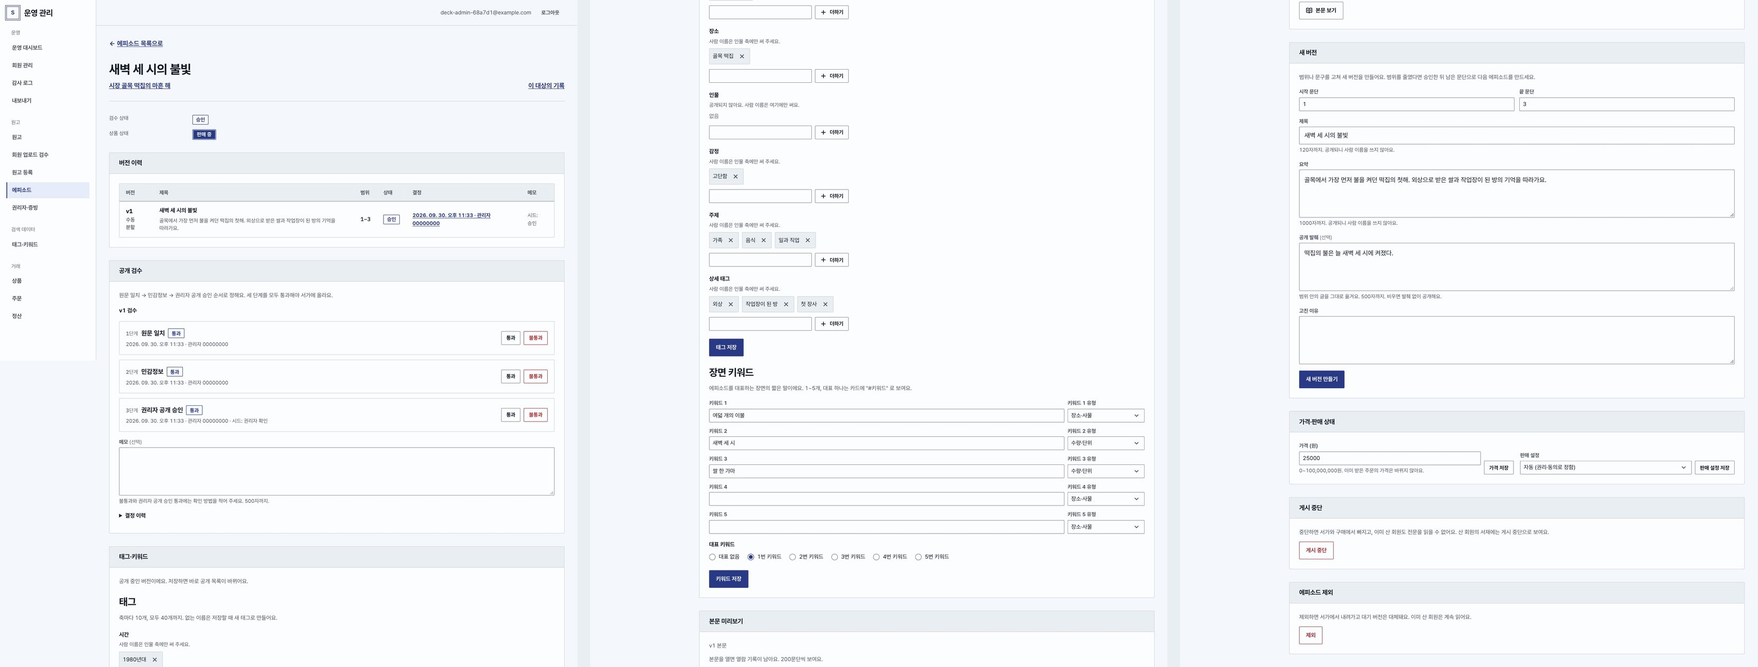
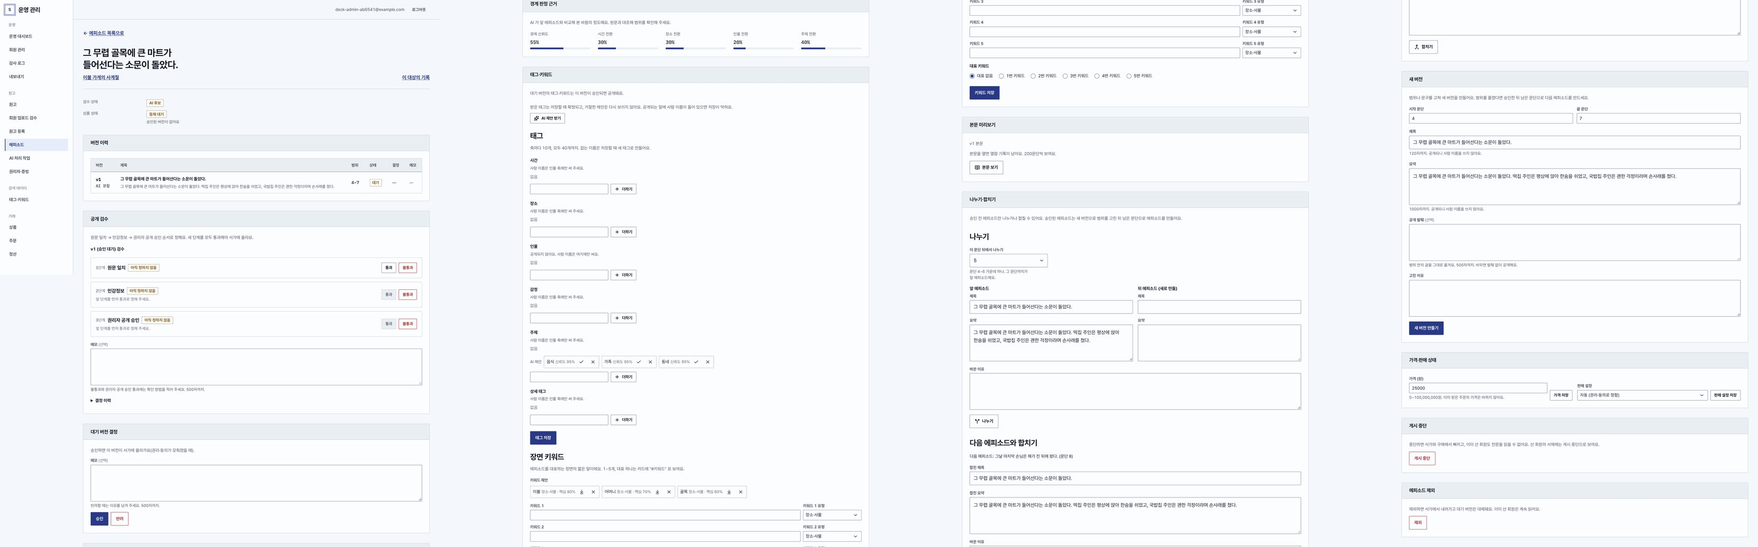
AI 처리 기반(B4b) 구현 반영: 기능 정의·정책서·화면 시안 갱신

diff --git a/planning/features.html b/planning/features.html
@@ -51,19 +51,19 @@
 
   <dl class="facts">
     <div class="fact"><dt>기능</dt><dd class="num">45개</dd></div>
-    <div class="fact"><dt>구현</dt><dd class="num">27개 <small>B1–B3·B5·B4a·B6a</small></dd></div>
-    <div class="fact"><dt>일부 구현</dt><dd class="num">10개</dd></div>
-    <div class="fact"><dt>예정</dt><dd class="num">8개 <small>B4·B6</small></dd></div>
+    <div class="fact"><dt>구현</dt><dd class="num">34개 <small>B1–B3·B4a·B4b·B5·B6a</small></dd></div>
+    <div class="fact"><dt>일부 구현</dt><dd class="num">5개</dd></div>
+    <div class="fact"><dt>예정</dt><dd class="num">6개 <small>B4c·B6</small></dd></div>
   </dl>
 
   <section class="sec" aria-labelledby="s0">
     <div class="sec-label"><p class="eyebrow">Overview</p><h2 id="s0">진행 현황</h2></div>
     <div class="sec-body">
-      <div class="meter" role="img" aria-label="45개 중 구현 27, 일부 10, 예정 8">
-        <i style="width:60%;background:var(--positive)"></i><i style="width:22.2%;background:var(--info)"></i><i style="width:17.8%;background:var(--rule-strong)"></i>
+      <div class="meter" role="img" aria-label="45개 중 구현 34, 일부 5, 예정 6">
+        <i style="width:75.6%;background:var(--positive)"></i><i style="width:11.1%;background:var(--info)"></i><i style="width:13.3%;background:var(--rule-strong)"></i>
       </div>
-      <div class="meter-legend"><span><span class="stamp is-built">구현</span> 27</span><span><span class="stamp is-partial">일부</span> 10</span><span><span class="stamp is-next">예정</span> 8</span></div>
-      <p class="prose">원고 등록부터 공개 검수, 서재·정산까지 전체 흐름 동작. 권리 심화(B5), 태그·키워드와 태그 조건 탐색(B4a), 감사 로그 화면·내보내기(B6a) 완료. 남은 기능은 AI 처리(B4), 운영·증빙(B6) 단계에서 추가.</p>
+      <div class="meter-legend"><span><span class="stamp is-built">구현</span> 34</span><span><span class="stamp is-partial">일부</span> 5</span><span><span class="stamp is-next">예정</span> 6</span></div>
+      <p class="prose">원고 등록부터 공개 검수, 서재·정산까지 전체 흐름 동작. 권리 심화(B5), 태그·키워드와 태그 조건 탐색(B4a), 감사 로그 화면·내보내기(B6a), AI 처리 기반(B4b: 작업 큐, AI 분할·제안 검수, 나누기·합치기, 외부 AI 통제) 완료. 남은 기능은 의미 검색(B4c), 운영·증빙(B6) 단계에서 추가.</p>
     </div>
   </section>
 
@@ -89,11 +89,11 @@
         <tr><td class="mono">F2-1</td><td>관리자 원고 등록</td><td>DOCX·PDF·TXT, 원작 정보, 저작권자, 중복 경고(파일 해시·이름·본문 해시)</td><td>A-08</td><td><span class="stamp is-built">구현 B3</span></td></tr>
         <tr><td class="mono">F2-2</td><td>회원 원고 등록</td><td>업로드 + 책임 고지 + 외부 AI 처리 동의, 마이페이지에서 진행 단계 확인</td><td>P-14</td><td><span class="stamp is-built">구현 B3</span></td></tr>
         <tr><td class="mono">F2-3</td><td>본문 추출·정규화</td><td>장·절·문단 구조와 문장 시작 위치는 구현. 문장 끝 위치, 머리글·바닥글 제거는 B4. HWP·OCR·STT 제외</td><td>—</td><td><span class="stamp is-partial">일부</span></td></tr>
-        <tr><td class="mono">F2-4</td><td>AI 장면·에피소드 분할</td><td>경계 후보와 사전 생성 요약, 관리자 확정</td><td>A-13 · A-14</td><td><span class="stamp is-next">예정 B4</span></td></tr>
-        <tr><td class="mono">F2-5</td><td>처리 작업 큐</td><td>단계별 상태·재시도·로그</td><td>A-10 · A-11</td><td><span class="stamp is-next">예정 B4</span></td></tr>
-        <tr><td class="mono">F2-6</td><td>관리자 검수</td><td>문단 범위로 에피소드·버전 생성, 겹침 방지, 문단 범위 보기는 구현. 원문·AI 결과 나란히 보기, 분할·병합은 B4</td><td>A-12 · A-13</td><td><span class="stamp is-partial">일부</span></td></tr>
+        <tr><td class="mono">F2-4</td><td>AI 장면·에피소드 분할</td><td>원고를 빈 구간의 창(약 24,000자)씩 보내 경계 후보·제목·요약 초안·경계 근거를 받고, 승인 전 "AI 후보" 에피소드로 둔 뒤 관리자가 확정. 키 없이 도는 결정적 제공자로 전체 흐름 검증, 실제 AI(Claude) 연결은 키(N1) 뒤</td><td>A-11 · A-13</td><td><span class="stamp is-built">구현 B4b</span></td></tr>
+        <tr><td class="mono">F2-5</td><td>처리 작업 큐</td><td>대기·처리 중·재시도 대기·실패·완료, 세 번까지 자동 재시도와 관리자 재실행, 처리 기록, AI 사용량·하루 예산·동시 실행 한도, "지금 실행". 크론 설정은 Vercel 플랜(N1) 뒤</td><td>A-10 · A-11</td><td><span class="stamp is-built">구현 B4b</span></td></tr>
+        <tr><td class="mono">F2-6</td><td>관리자 검수</td><td>문단 범위로 에피소드·버전 생성, 겹침 방지, 문단 범위 보기, AI 후보 조건, 경계 판정 근거, 승인 전 에피소드 나누기·붙은 두 에피소드 합치기</td><td>A-12 · A-13 · A-14</td><td><span class="stamp is-built">구현 B3·B4b</span></td></tr>
         <tr><td class="mono">F2-7</td><td>승인 기록</td><td>버전 승인·반려, 결정자·시각·메모는 구현. 재색인 표시는 B4</td><td>A-13</td><td><span class="stamp is-partial">일부</span></td></tr>
-        <tr><td class="mono">F2-8</td><td>회원 업로드 검수</td><td>접수 대기 목록·동의 기록 확인·접수·반려 사유 회신은 구현. AI 처리 단계는 B4</td><td>A-09</td><td><span class="stamp is-partial">일부</span></td></tr>
+        <tr><td class="mono">F2-8</td><td>회원 업로드 검수</td><td>접수 대기 목록·동의 기록 확인·접수·반려 사유 회신, 접수한 원고의 AI 분할 요청(외부 AI 동의가 없으면 막힌 이유와 수동 분할 안내)</td><td>A-09</td><td><span class="stamp is-built">구현 B3·B4b</span></td></tr>
       </tbody></table></div></div>
   </section>
 
@@ -102,8 +102,8 @@
     <div class="sec-body"><div class="table-wrap"><table class="feature-table">
       <thead><tr><th>번호</th><th>기능</th><th>완료 기준</th><th>화면</th><th>상태</th></tr></thead>
       <tbody>
-        <tr><td class="mono">F3-1</td><td>서사 태그</td><td>시간·장소·인물·감정 축(인물은 공개 안 함), 관리자가 버전마다 붙이고 새 버전이 이어받음은 구현. AI 제안 → 관리자 확정은 B4</td><td>A-13 · A-19</td><td><span class="stamp is-partial">일부</span></td></tr>
-        <tr><td class="mono">F3-2</td><td>장면 키워드</td><td>에피소드 버전마다 1~5개, 대표 1개, 키워드 유형은 구현(대표는 카드에 #키워드). AI 후보와 핵심 장면 점수는 B4</td><td>A-13 · A-19</td><td><span class="stamp is-partial">일부</span></td></tr>
+        <tr><td class="mono">F3-1</td><td>서사 태그</td><td>시간·장소·인물·감정 축(인물은 공개 안 함), 관리자가 버전마다 붙이고 새 버전이 이어받음. AI 제안(기존 태그·새 이름, 신뢰도)을 받거나 거절하고, 제목만 고친 새 버전으로 제안이 따라감</td><td>A-13 · A-19</td><td><span class="stamp is-built">구현 B4a·B4b</span></td></tr>
+        <tr><td class="mono">F3-2</td><td>장면 키워드</td><td>에피소드 버전마다 1~5개, 대표 1개, 키워드 유형(대표는 카드에 #키워드). AI 후보와 핵심 장면 점수를 빈 칸에 넣거나 거절</td><td>A-13 · A-19</td><td><span class="stamp is-built">구현 B4a·B4b</span></td></tr>
         <tr><td class="mono">F3-3</td><td>상세 태그</td><td>검색용 일상어 태그(축마다 10개까지), 카드·상세에 보이고 검색어로 찾음</td><td>A-13</td><td><span class="stamp is-built">구현 B4a</span></td></tr>
         <tr><td class="mono">F3-4</td><td>공개 주제 분류</td><td>이야기 종류(실화·꿈 이야기·단편 소설)와 주제 8개(가족·사랑·우정·성장·일과 직업·여행·음식·동네), 첫 화면 주제 타일과 탐색 조건</td><td>P-01 · P-02</td><td><span class="stamp is-built">구현 B3·B4a</span></td></tr>
         <tr><td class="mono">F3-5</td><td>식별자 매핑</td><td>주문 항목·이용 기록에 구매 시점의 대표 키워드를 남겨 키워드 ↔ 에피소드 ↔ 저작권자 ↔ 정산 식별자가 이어짐</td><td>A-23 · A-24</td><td><span class="stamp is-built">구현 B4a</span></td></tr>
@@ -134,7 +134,7 @@
         <tr><td class="mono">F5-3</td><td>약관·책임 고지</td><td>회원 업로드 동의 항목, 동의 시각·버전 저장은 구현. 문구는 초안이며 발주자 동의서 문구로 교체 예정</td><td>P-14 · P-15</td><td><span class="stamp is-partial">일부</span></td></tr>
         <tr><td class="mono">F5-4</td><td>간이 계약 자동 생성</td><td>"저작권은 작가, 출판권은 레페토" 조건(계약 주체 명칭 확인 필요)을 발급 때 저장하고 PDF 출력, 무효화. 전자서명 없이 동의서·업로드 동의로 증빙</td><td>A-15 · A-18</td><td><span class="stamp is-built">구현 B5</span></td></tr>
         <tr><td class="mono">F5-5</td><td>승인 게이트</td><td>원문 일치 → 민감정보 → 권리자 공개 승인 3단계(순서·메모·이력·되돌림), 판매 차단 조건, 가림(구매자 전문에 ■■)</td><td>A-13 · A-15</td><td><span class="stamp is-built">구현 B3·B5</span></td></tr>
-        <tr><td class="mono">F5-6</td><td>외부 AI 전송 통제</td><td>동의 기록은 구현. 동의 없는 원고의 AI 처리 차단은 B4·B5</td><td>—</td><td><span class="stamp is-partial">일부</span></td></tr>
+        <tr><td class="mono">F5-6</td><td>외부 AI 전송 통제</td><td>권리 기록의 외부 AI 판정과 증빙(회원 동의, 확인·미파기·기한 안의 동의서 범위)을 등록·실행·원문 전송·결과 저장마다 다시 확인. 가림 적용 원문만 보내고 보낸 범위를 작업 기록에 남김</td><td>A-07 · A-11</td><td><span class="stamp is-built">구현 B3·B4b</span></td></tr>
         <tr><td class="mono">F5-7</td><td>접근 기록</td><td>전문·원본·동의서·회원 정보·권리자 연락처·간이 계약 열람자와 시각</td><td>—</td><td><span class="stamp is-built">구현 B2·B3·B5</span></td></tr>
       </tbody></table></div></div>
   </section>

diff --git a/assets/data.js b/assets/data.js
@@ -111,22 +111,26 @@ SB.screens = [
     purpose: '회원이 올린 원고를 원고 상세에서 검수합니다. 접수하거나 사유를 적어 반려합니다.',
     points: ['업로드한 회원의 동의 기록(책임 고지·외부 AI)', '중복 판단 기준과 원본 열람(60초 유효 링크, 열람 기록)', '접수·반려(반려 사유는 회원에게 표시)'],
     features: ['F2-8', 'F5-6'], strips: 'A09-submission-strips.jpg' },
-  { id: 'A-10', name: 'AI 처리 작업', route: '/admin/jobs', area: 'admin', status: 'wire', bundle: 'B4',
-    purpose: 'AI 분할·태깅 작업의 처리·실패·완료를 봅니다.', points: ['작업 상태와 재시도', '처리 시간'], features: ['F2-5'], desktop: 'W-A10-jobs-desktop.jpg' },
-  { id: 'A-11', name: '작업 상세', route: '/admin/job', area: 'admin', status: 'wire', bundle: 'B4',
-    purpose: '단계별 진행과 로그를 보고 실패한 단계를 다시 실행합니다.', points: ['단계별 진행', '로그와 재시도'], features: ['F2-5'], desktop: 'W-A11-job-desktop.jpg' },
+  { id: 'A-10', name: 'AI 처리 작업', route: '/admin/jobs', area: 'admin', status: 'built', bundle: 'B4b',
+    purpose: 'AI 분할과 태그·키워드 제안 작업의 대기·처리·재시도·실패·완료를 보고, 실행기를 바로 돌립니다.',
+    points: ['상태별 수, 오늘 AI 비용과 하루 예산, 제공자', '"지금 실행"(크론 설정 전에도 운영), 상태·종류 조건', '작업마다 대상 원고·에피소드, 시도 수, 결과(후보·제안 수), 실패 이유'],
+    features: ['F2-5'], desktop: 'A10-jobs-desktop.jpg', mobile: 'A10-jobs-mobile.jpg', extra: [{ label: '와이어프레임', desktop: 'W-A10-jobs-desktop.jpg' }] },
+  { id: 'A-11', name: '작업 상세', route: '/admin/jobs/{id}', area: 'admin', status: 'built', bundle: 'B4b',
+    purpose: '분할 진행과 후보별 제안 진행, 처리 기록, AI 사용량을 보고 실패한 작업을 다시 실행합니다.',
+    points: ['분할한 문단 비율, 후보의 태그·키워드 제안 진행과 "AI 후보 검수" 링크', '처리 기록: 원문 보냄(문단 범위·글자 수·가림 수), 구간 처리, 재시도 — 원문·AI 응답은 남기지 않음', '호출별 모델·토큰·비용'],
+    features: ['F2-5', 'F5-6'], desktop: 'A11-job-desktop.jpg', extra: [{ label: '와이어프레임', desktop: 'W-A11-job-desktop.jpg' }] },
   { id: 'A-12', name: '에피소드 검수 목록', route: '/admin/episodes', area: 'admin', status: 'built', bundle: 'B3',
     purpose: '에피소드를 검수 상태와 승인 대기 버전, 원고 출처로 찾습니다.',
     points: ['검수 상태·승인 대기 버전·출처 조건', '현재 버전, 문단 범위, 상품 상태, 가격', '대시보드의 "승인 대기 버전"에서 바로 진입'],
     features: ['F2-6'], desktop: 'A12-episodes-desktop.jpg', mobile: 'A12-episodes-mobile.jpg' },
   { id: 'A-13', name: '에피소드 편집', route: '/admin/episodes/{id}', area: 'admin', status: 'built', bundle: 'B3',
-    purpose: '버전을 만들고 승인하거나 반려합니다. 공개 검수 3단계를 정하고, 태그와 장면 키워드를 붙이고, 필요하면 게시를 중단합니다. 가격과 판매 설정도 여기서 바꿉니다.',
-    points: ['버전 이력: 작성자·결정자·메모', '공개 검수: 원문 일치 → 민감정보 → 권리자 공개 승인, 결정 이력', '태그·키워드: 축마다 태그(없는 이름은 새로 만듦), 장면 키워드 1~5개와 대표, 대기 버전이 있으면 공개 중인 버전도 고를 수 있음', '새 버전(범위 조정·수정), 승인·반려, 게시 중단·재개, 제외', '가격·판매 설정(저장 즉시 공개 목록 반영)'],
-    features: ['F2-6', 'F2-7', 'F5-5', 'F6-3', 'F3-1', 'F3-2'], strips: 'A13-episode-strips.jpg' },
-  { id: 'A-14', name: '원문 대조', route: '/admin/manuscripts/{id}', area: 'admin', status: 'partial', bundle: 'B3 · B4',
-    purpose: '번호 붙은 문단을 200개씩 넘겨 보며 범위를 정합니다. 분할·병합 편집은 AI 분할과 함께 구현합니다.',
-    points: ['구현: 200문단 단위 보기, 장·절 제목, 쪽 번호, 열람 기록', '예정: 원문 근거 대조, 분할·병합(와이어프레임)'],
-    features: ['F2-6'], desktop: 'A14-paragraphs-desktop.jpg', extra: [{ label: '와이어프레임: 분할·병합', desktop: 'W-A14-source-desktop.jpg' }] },
+    purpose: '버전을 만들고 승인하거나 반려합니다. 공개 검수 3단계를 정하고, 태그와 장면 키워드를 붙이고(AI 제안은 받거나 거절), 승인 전 에피소드는 나누거나 합치고, 필요하면 게시를 중단합니다. 가격과 판매 설정도 여기서 바꿉니다.',
+    points: ['버전 이력: 작성자·결정자·메모, AI 분할 버전 표시', '공개 검수: 원문 일치 → 민감정보 → 권리자 공개 승인, 결정 이력', 'AI 후보의 경계 판정 근거(신뢰도·시간·장소·인물·주제 전환)', '태그·키워드: 축마다 태그와 AI 제안(신뢰도, 받기·거절), 장면 키워드 1~5개·대표와 AI 키워드 후보(핵심 장면 점수), "AI 제안 받기"', '새 버전, 나누기·합치기(승인 전), 승인·반려, 게시 중단·재개, 제외, 가격·판매 설정'],
+    features: ['F2-4', 'F2-6', 'F2-7', 'F5-5', 'F6-3', 'F3-1', 'F3-2'], strips: 'A13-episode-strips.jpg' },
+  { id: 'A-14', name: '원문 대조', route: '/admin/manuscripts/{id}', area: 'admin', status: 'built', bundle: 'B3 · B4b',
+    purpose: '번호 붙은 문단을 200개씩 넘겨 보며 범위를 정하고, 에피소드 화면에서 AI 경계 근거를 보며 승인 전 에피소드를 나누거나 합칩니다.',
+    points: ['200문단 단위 보기, 장·절 제목, 쪽 번호, 열람 기록', '경계 판정 근거: 신뢰도와 시간·장소·인물·주제 전환, 이름·가린 글 경고', '나누기(이 문단 뒤에서, 뒤는 새 에피소드)·합치기(바로 이어지는 승인 전 에피소드만)'],
+    features: ['F2-4', 'F2-6'], desktop: 'A14-paragraphs-desktop.jpg', extra: [{ label: '경계 근거·나누기·합치기', desktop: 'A14-reshape-desktop.jpg' }, { label: '와이어프레임: 분할·병합', desktop: 'W-A14-source-desktop.jpg' }] },
   { id: 'A-15', name: '권리·공개 검수', route: '/admin/manuscripts/{id}', area: 'admin', status: 'merged', bundle: 'B3', mergedInto: 'A-07',
     purpose: '원고 상세에서 권리 판정을 버전별로 기록하고, 동의서를 확인·파기하고, 간이 계약을 발급합니다. 본문의 민감정보는 가림으로 처리합니다.',
     points: ['권리 기록: 판정 항목 6개, 허용 용도, 제한 문구, 연결 동의서', '동의서: 범위와 보관 기한, 확인, 기한 상태, 파기', '간이 계약: 발급, PDF 받기, 무효화', '민감정보 가림(이 등장·문단·원고 전체), 원고 철회'],

diff --git a/planning/policy.html b/planning/policy.html
@@ -119,7 +119,7 @@
             <tr><td>권리 증빙</td><td>동의서 파일(스캔 이미지 가능)</td><td>업로드 시 책임 고지 동의(계약서 받지 않음)</td></tr>
             <tr><td>시작 상태</td><td>처리 중</td><td>접수 대기(관리자 검수 후 접수)</td></tr>
             <tr><td>외부 AI 처리</td><td>동의서 범위에 포함된 경우(동의서가 없으면 관리자 판정)</td><td>업로드 시 선택 동의한 경우</td></tr>
-            <tr><td>분할 방식</td><td colspan="2">AI가 제안한 경계를 관리자가 검수·확정. 외부 AI 미동의 원고는 관리자가 직접 분할</td></tr>
+            <tr><td>분할 방식</td><td colspan="2">AI가 제안한 경계(후보·제목·요약 초안·경계 근거)를 관리자가 검수·확정. 승인 전 후보는 나누거나 바로 이어지는 후보와 합칠 수 있음. 외부 AI 미동의 원고는 관리자가 직접 분할</td></tr>
           </tbody>
         </table>
       </div>
@@ -153,7 +153,7 @@
       <ul class="rows">
         <li><span class="n">EP-1</span><strong>분할 기준</strong><span>원고 본문의 시작·끝 문단 번호로 에피소드 범위 확정. 다른 에피소드의 승인 범위나 검토 중인 범위와 겹치면 거절.</span></li>
         <li><span class="n">EP-2</span><strong>버전</strong><span>수정·범위 조정은 새 버전으로 추가. 승인된 버전은 한 번에 하나이며, 새 버전 승인 시 이전 승인 버전은 대체됨. 반려 시 승인 버전 유지.</span></li>
-        <li><span class="n">EP-3</span><strong>승인 요약</strong><span>관리자가 승인한 요약만 공개(U6 기본안). AI가 만든 요약도 관리자 검수 전에는 확정하지 않음.</span></li>
+        <li><span class="n">EP-3</span><strong>승인 요약</strong><span>관리자가 승인한 요약만 공개(U6 기본안). AI가 만든 에피소드 후보·요약은 "AI 후보"로 대기하고 관리자 승인 전에는 공개하지 않음. 제목·요약에 원고의 사람 이름이나 가린 글이 들어 있으면 경고.</span></li>
         <li><span class="n">EP-4</span><strong>공개 발췌</strong><span>그 에피소드 원문에 그대로 있는 문장만 허용(저장 시 일치 확인). 발췌 공개 동의가 있을 때만 게시.</span></li>
         <li><span class="n">EP-5</span><strong>실명 금지</strong><span>요약·발췌·원고 소개에 사람 이름 사용 금지(작성 기준, 관리자 화면 안내). 본문의 실명·제3자 정보는 가림(RT-5)으로 처리하고, 민감정보 검수를 통과해야 공개 목록에 오름.</span></li>
         <li><span class="n">EP-6</span><strong>제외</strong><span>관리자가 사유를 남기고 에피소드를 제외하면 공개 목록과 판매에서 빠짐. 이미 구매한 회원은 구매한 버전을 계속 읽음.</span></li>
@@ -190,7 +190,7 @@
             <tr><td>외부 공개 허용</td><td>요약·발췌를 공개 목록에 올릴 수 있는지</td><td>불허 시 공개 목록 제외</td></tr>
             <tr><td>익명화 필요</td><td>이름 가림이 필요한 원고인지(회원의 가림 요청이 기본값)</td><td>필요 시 가림 처리 전까지 공개 목록 제외</td></tr>
             <tr><td>2차 활용 허용</td><td>영상·웹툰 등 2차 창작 활용 허용 여부</td><td>판매 판정에는 쓰지 않음. 상업적 활용 라이선스(U2) 판단 근거</td></tr>
-            <tr><td>외부 AI 허용</td><td>외부 AI 처리(분할·임베딩) 허용 여부. 회원 업로드는 외부 AI 처리 동의, 관리자 등록은 연결 동의서의 범위(동의서가 없으면 관리자 판정)</td><td>AI 처리 작업 등록 조건</td></tr>
+            <tr><td>외부 AI 허용</td><td>외부 AI 처리(분할·태그 제안·임베딩) 허용 여부. 회원 업로드는 외부 AI 처리 동의, 관리자 등록은 연결 동의서의 범위(동의서가 없으면 관리자 판정)</td><td>AI 작업의 등록·실행·원문 전송·결과 저장마다 판정과 증빙(동의서의 확인·파기·보관 기한·범위)을 다시 확인. 가림을 적용한 원문만 보내고 보낸 범위를 작업 기록에 남김</td></tr>
             <tr><td>허용 용도 · 제한 문구</td><td>허용하는 활용 유형과 이용 제한 내용</td><td>제한이 있으면 조건부 판매, 제한 내용 표시</td></tr>
             <tr><td>연결 동의서</td><td>이 권리 판정의 증빙 파일</td><td>동의 범위·보관 기한 판정</td></tr>
           </tbody>
@@ -314,6 +314,7 @@
         <li><span class="n">OP-5</span><strong>파일 제공</strong><span>원본·동의서는 열람 기록을 남긴 뒤 60초 유효 링크로만 제공. 등록 후 바뀐 파일은 열지 않고 알림.</span></li>
         <li><span class="n">OP-6</span><strong>감사 로그</strong><span>등급·상태·승인·권리·가격·주문·지급·분류 변경을 수정·삭제할 수 없는 기록으로 저장. 관리자 화면에서 대상·기간으로 조회하고, 회원은 이름 없이 번호로 표시(회원 정보는 열람 기록을 남기는 회원 상세에서).</span></li>
         <li><span class="n">OP-7</span><strong>내보내기</strong><span>관리자가 공개된 에피소드와 메타데이터를 CSV·JSON으로 받음. 공개 목록에 보이는 글만 싣고 사람 이름·원문 전문·동의서·원고 파일은 빼며, 받을 때마다 받은 사람·시각·조건·건수를 기록.</span></li>
+        <li><span class="n">OP-8</span><strong>AI 처리 비용</strong><span>AI 호출마다 모델·토큰·비용을 기록하고, 하루(한국 날짜) 예산을 넘거나 동시에 도는 작업이 한도에 닿으면 새 작업을 멈춤. 실패한 작업은 세 번까지 자동 재시도하고, 거절·설정 없음처럼 다시 해도 같은 실패는 바로 멈춰 관리자가 다시 실행.</span></li>
       </ul>
       <p class="note"><strong>정식 공개 전 추가 조건.</strong> 보안 강화 조치, 외부 메일 발송(SMTP), 약관·개인정보 처리방침 법무 검토.</p>
     </div>

diff --git a/planning/ia.html b/planning/ia.html
@@ -57,7 +57,7 @@
     <div class="fact"><dt>공개 화면</dt><dd class="num">17개 <small>P-01–P-17</small></dd></div>
     <div class="fact"><dt>관리자 화면</dt><dd class="num">25개 <small>A-01–A-25</small></dd></div>
     <div class="fact"><dt>언어</dt><dd>한국어 · 영어 <small>공개 화면</small></dd></div>
-    <div class="fact"><dt>구현한 화면</dt><dd class="num"><span data-count="*:built,partial,merged"></span>개 <small>구현 28 + 포함·일부 4</small></dd></div>
+    <div class="fact"><dt>구현한 화면</dt><dd class="num"><span data-count="*:built,partial,merged"></span>개 <small>구현 31 + 포함 3</small></dd></div>
   </dl>
 
   <section class="sec" aria-labelledby="s1">
@@ -80,7 +80,7 @@
     <div class="sec-body">
       <div class="tree">
         <div><h3><span class="mono">운영</span>운영</h3><ul><li>운영 대시보드 <span class="mono">A-02</span></li><li>회원 관리 <span class="mono">A-03</span></li><li>└ 회원 상세 <span class="mono">A-04</span></li><li>감사 로그 <span class="mono">A-25</span></li><li>내보내기 <span class="mono">A-25</span></li></ul></div>
-        <div><h3><span class="mono">원고</span>원고</h3><ul><li>원고 목록·상세 <span class="mono">A-07</span></li><li>└ 권리·공개 검수 <span class="mono">A-15</span></li><li>└ 원문 대조 <span class="mono">A-14</span></li><li>회원 업로드 검수 <span class="mono">A-09</span></li><li>원고 등록 <span class="mono">A-08</span></li><li>에피소드 검수 목록 <span class="mono">A-12</span></li><li>└ 에피소드 편집 <span class="mono">A-13</span></li><li class="is-wire">AI 처리 작업 <span class="mono">A-10</span></li><li>권리자·증빙 <span class="mono">A-18</span></li></ul></div>
+        <div><h3><span class="mono">원고</span>원고</h3><ul><li>원고 목록·상세 <span class="mono">A-07</span></li><li>└ 권리·공개 검수 <span class="mono">A-15</span></li><li>└ 원문 대조 <span class="mono">A-14</span></li><li>회원 업로드 검수 <span class="mono">A-09</span></li><li>원고 등록 <span class="mono">A-08</span></li><li>에피소드 검수 목록 <span class="mono">A-12</span></li><li>└ 에피소드 편집 <span class="mono">A-13</span></li><li>AI 처리 작업 <span class="mono">A-10</span></li><li>└ 작업 상세 <span class="mono">A-11</span></li><li>권리자·증빙 <span class="mono">A-18</span></li></ul></div>
         <div><h3><span class="mono">검색 데이터</span>검색 데이터</h3><ul><li>태그·키워드 <span class="mono">A-19</span></li><li>└ 장면 키워드 목록 <span class="mono">A-19</span></li><li class="is-wire">벡터 색인 <span class="mono">A-20</span></li></ul></div>
         <div><h3><span class="mono">거래</span>거래</h3><ul><li>상품 관리 <span class="mono">A-21</span></li><li>주문 <span class="mono">A-22</span></li><li>└ 주문 상세 <span class="mono">A-23</span></li><li>정산 <span class="mono">A-24</span></li></ul></div>
       </div>

diff --git a/planning/schedule.html b/planning/schedule.html
@@ -70,7 +70,8 @@
             <tr><td class="group">디자인</td><td>디자인 시스템 사이트, 무드보드, 기획·디자인 자료</td><td class="mono">10.22 – 10.27</td><td><span class="stamp is-partial">진행 중</span></td><td>C1 · C4 · C5</td></tr>
             <tr><td class="group">납품</td><td>C1–C5 마무리와 제출</td><td class="mono">10.27 – 10.30</td><td><span class="stamp is-next">예정</span></td><td>계약 납품물</td></tr>
             <tr><td class="group">개발</td><td>분류(B4a): 태그 축·태그·장면 키워드 수동 입력, 주제·태그·활용 유형 탐색, 첫 화면 주제 타일</td><td class="mono">10.30 – 11.5</td><td><span class="stamp is-built">완료 10.1</span></td><td>태그 조건 탐색</td></tr>
-            <tr><td class="group">개발</td><td>AI 처리(B4): 작업 대기열·AI 분할·태그·키워드 제안·의미 검색</td><td class="mono">10.30 – 11.5</td><td><span class="stamp is-next">예정 · 별도 협의</span></td><td>AI 분할·의미 검색</td></tr>
+            <tr><td class="group">개발</td><td>AI 처리 기반(B4b): 작업 대기열·실행기, AI 분할 → 후보 검수, 나누기·합치기, 태그·키워드 제안 검수, 외부 AI 통제, 사용량·예산</td><td class="mono">10.30 – 11.5</td><td><span class="stamp is-built">완료 10.1</span></td><td>키 없이 도는 결정적 제공자로 시연, Claude 연결은 키(N1) 뒤</td></tr>
+            <tr><td class="group">개발</td><td>의미 검색(B4c): 임베딩·의미 검색·검색 기록</td><td class="mono">10.30 – 11.5</td><td><span class="stamp is-next">예정 · 별도 협의</span></td><td>의미 검색</td></tr>
             <tr><td class="group">개발</td><td>권리 심화(B5): 공개 검수 3단계, 가림, 게시 중단·철회, 동의서 파기, 간이 계약, 권리자·증빙</td><td class="mono">11.5 – 11.8</td><td><span class="stamp is-built">완료 9.30</span></td><td>공개 검수·간이 계약 PDF</td></tr>
             <tr><td class="group">개발</td><td>운영 기록(B6a): 감사 로그 화면, 내보내기</td><td class="mono">11.8 – 11.13</td><td><span class="stamp is-built">완료 10.1</span></td><td>감사 로그·CSV·JSON</td></tr>
             <tr><td class="group">개발</td><td>운영·증빙(B6): KPI, 정리 작업, 통합 점검</td><td class="mono">11.8 – 11.13</td><td><span class="stamp is-next">예정 · 별도 협의</span></td><td>증빙 자료</td></tr>

diff --git a/planning/index.html b/planning/index.html
@@ -56,7 +56,7 @@
     <ul class="ix-list">
       <li class="is-featured"><a href="overview.html"><div><span class="call">SB-PLAN-01</span><strong>서비스 기획서</strong><span>추진 배경과 서비스 정의, 목표와 성과 지표, 사용자와 이용 여정, 수익 구조, 로드맵, 리스크</span></div><span class="arrow" aria-hidden="true">→</span></a></li>
       <li><a href="ia.html"><div><span class="call">SB-PLAN-02</span><strong>서비스 구조와 메뉴</strong><span>공개·관리자 메뉴 트리와 화면 42개의 번호·주소·상태</span></div><span class="arrow" aria-hidden="true">→</span></a></li>
-      <li><a href="features.html"><div><span class="call">SB-PLAN-03</span><strong>기능 정의</strong><span>45개 기능의 완료 기준과 구현 상태(구현 27 · 일부 10 · 예정 8)</span></div><span class="arrow" aria-hidden="true">→</span></a></li>
+      <li><a href="features.html"><div><span class="call">SB-PLAN-03</span><strong>기능 정의</strong><span>45개 기능의 완료 기준과 구현 상태(구현 34 · 일부 5 · 예정 6)</span></div><span class="arrow" aria-hidden="true">→</span></a></li>
       <li><a href="schedule.html"><div><span class="call">SB-PLAN-04</span><strong>일정표</strong><span>9월 설계부터 11월 최종 마감까지 계획과 실제 진행, 발주자 확인 요청</span></div><span class="arrow" aria-hidden="true">→</span></a></li>
       <li><a href="policy.html"><div><span class="call">SB-PLAN-05</span><strong>서비스 정책서</strong><span>회원·원고·에피소드·권리·거래·정산·운영 규칙과 상태 정의</span></div><span class="arrow" aria-hidden="true">→</span></a></li>
     </ul>
